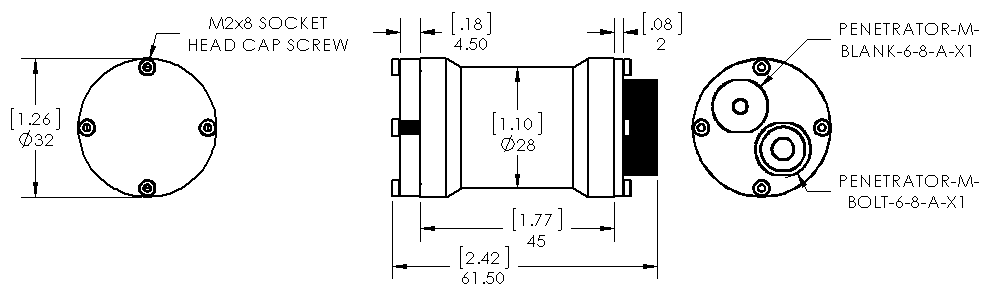
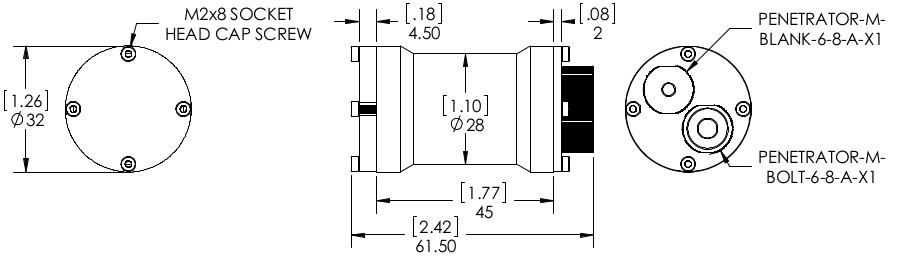
Added higher resolution 2D drawings and weight to document

diff --git a/lumen/index.md b/lumen/index.md
@@ -92,8 +92,8 @@ For further information please see the [Cree XLamp MK-R LED Data Sheet](http://w
 | Overall Diameter   | 32 mm | 1.26 in |
 | Bracket Mounting Hole Spacing | 19 mm | 0.75 in |
 | Bracket Screw Size | M3 |
-| Weight in Air | g    |   lb     |
-| Weight in Water | g    |   lb   |
+| Weight in Air (w/ 1m cable) | 82 g    |   2.9 oz     |
+| Weight in Water (w/ 1m cable) | 32 g    |  1.1 oz   |
 |----------------------|
 
 
